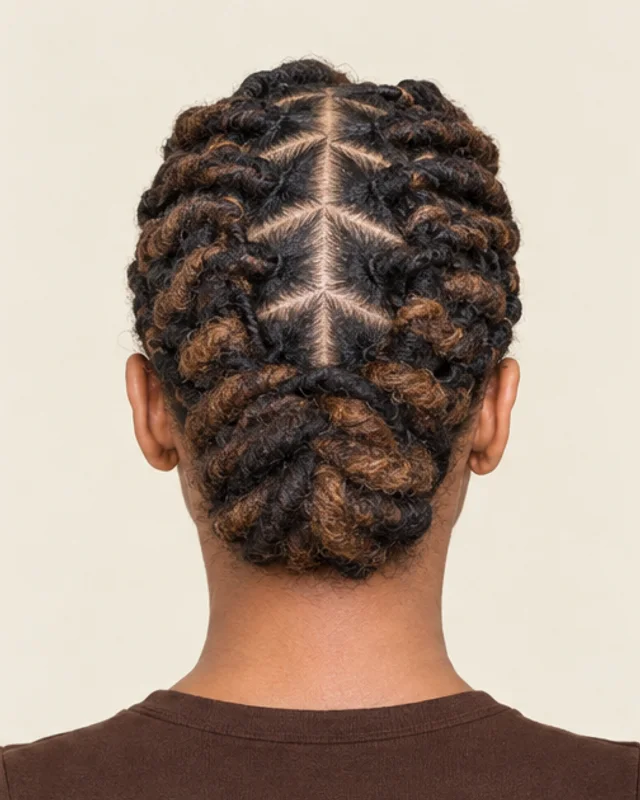
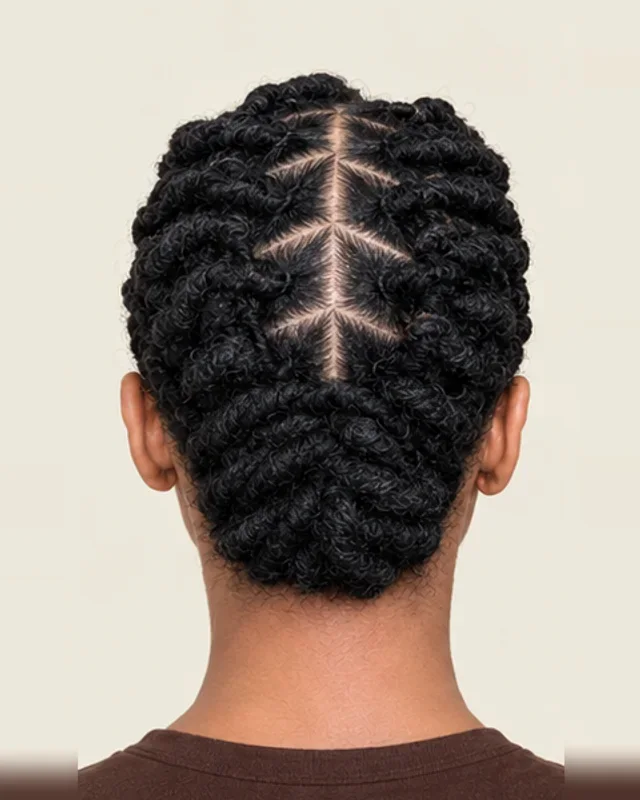
Style photos: every look in black hair
Seven looks had non-black hair (barrel twist bun, barrel twists, high
loc bun, loc petals, loc updo, starter locs, flat twist front afro).
Their coloured sheets are held back and black-hair sheets mapped in
their place. Those sheets are already-framed 4:5 panels, so they carry
`framed: true` and are sliced without reframing (sliceTriptych);
Starter Locs has no side view yet, so `omit: ["side"]` leaves that slot
a placeholder.

diff --git a/CLAUDE.md b/CLAUDE.md
@@ -348,7 +348,12 @@ picture; this file is the short version of what to keep in mind when editing.
   `loc-style-<id>-front|back|side`, with `-<n>-` for a second look, and
   read through `locStyleLooks()`. The sheet-to-style mapping is
   `scripts/loc-generated-images.json` and is never guessed from a
-  filename; `style: null` holds a sheet back. Five styles have no sheet
+  filename; `style: null` holds a sheet back. Every picture in both
+  libraries shows black hair: the coloured sheets are held back and
+  their `(black)` replacements carry `framed: true` (panels already
+  4:5 portraits, sliced without reframing). Starter Locs has no side
+  view yet — its sheet carries `omit: ["side"]`, so that slot stays a
+  placeholder until one is generated. Five styles have no sheet
   yet and draw placeholders, and each of those plates — and the "Help
   finish the lookbook" block at the foot — links to `/styles/submit`
   with `?name=<style>&hair=Locs`, which pre-fills the form. Only `Locs`
